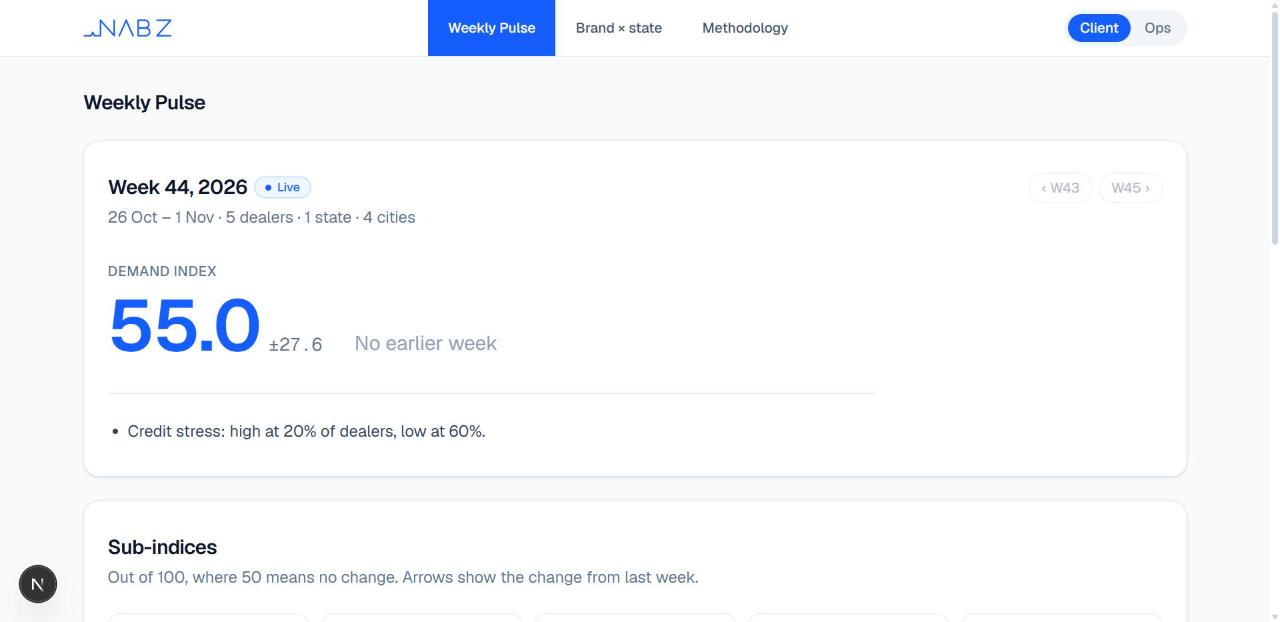
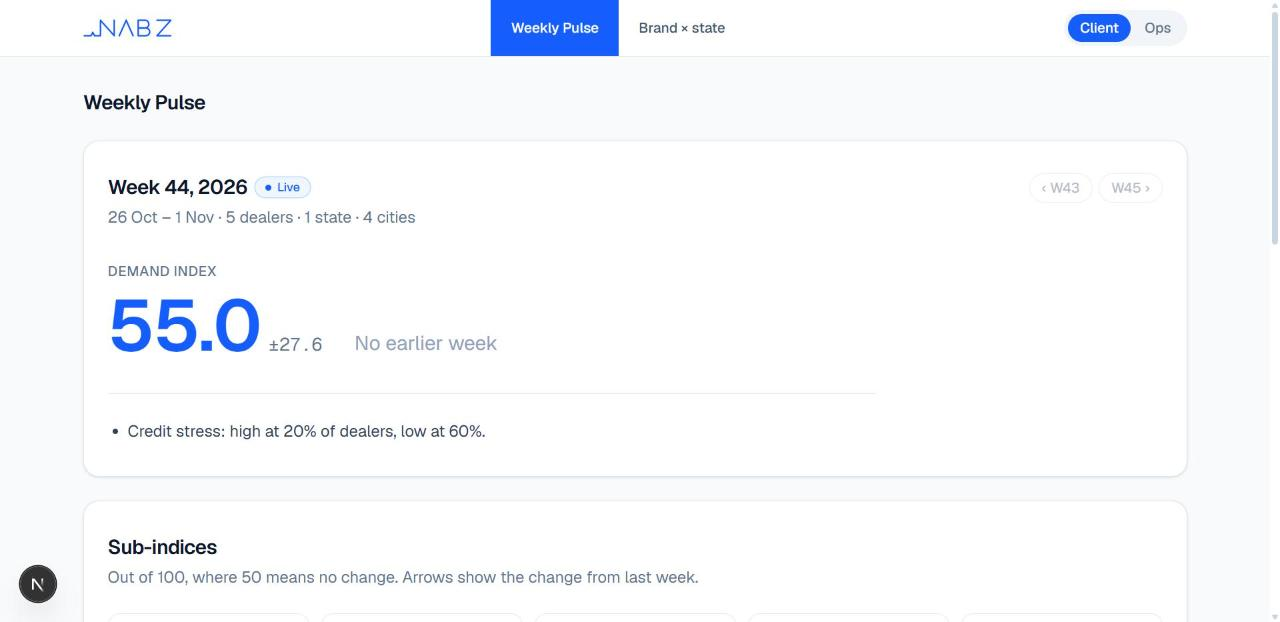
Remove the Methodology page, explain scoring in the README, clarify the testing error
The testing-mode error now says that adding a number to ALLOWED_NUMBERS is
enough to test with it; a premium key is only needed to call any number.

Claude-Session: https://claude.ai/code/session_01X7MXq8ioHa4FqjCKKq2fCm

Changed region(s): [[0.3125, 0.0, 0.625, 0.0916]]

diff --git a/src/app/(client)/_lib/pulse-data.ts b/src/app/(client)/_lib/pulse-data.ts
@@ -1,11 +1,8 @@
 import { db } from "@/lib/db/client";
 import { loadIndexInputs } from "@/lib/db/queries/index-data";
 import { weekStartOf } from "@/lib/domain/week";
-import type { WeekIndex } from "@/lib/index/engine";
-import { dimensionValueLabel, geoDimension, primaryAttributeDimension } from "@/lib/index/labels";
 import { buildPulseView, historyStart, parseWeekParam } from "@/lib/index/view";
 import { getSector } from "@/lib/sectors/registry";
-import type { SurveyDefinition } from "@/lib/surveys/schema";
 
 export const SECTOR = getSector("vehicles");
 
@@ -30,22 +27,3 @@ export async function loadPulse(weekParam: string | string[] | undefined) {
 }
 
 export type LoadedPulse = NonNullable<Awaited<ReturnType<typeof loadPulse>>>;
-
-/** Dealers per value of one dimension this week, most first. */
-function dealersBy(definition: SurveyDefinition, index: WeekIndex, dimension: string | null) {
-  if (!dimension) return [];
-  return (index.cuts[dimension] ?? [])
-    .map((g) => ({ label: dimensionValueLabel(definition, SECTOR, dimension, g.values[dimension]!), n: g.n }))
-    .toSorted((a, b) => b.n - a.n || a.label.localeCompare(b.label));
-}
-
-/** The latest week's dealer counts by brand and by state. Call after `await io()`: it reads the clock. */
-export async function loadDealerCounts() {
-  const pulse = await loadPulse(undefined);
-  if (!pulse) return null;
-  const { definition, index } = pulse;
-  return {
-    byBrand: dealersBy(definition, index, primaryAttributeDimension(definition)),
-    byState: dealersBy(definition, index, geoDimension(definition, "state")),
-  };
-}

diff --git a/src/lib/calling-policy.ts b/src/lib/calling-policy.ts
@@ -12,11 +12,11 @@ export type CallingScope = { mode: CallingMode; allowedNumbers: readonly string[
 /** For code that only reads from Bolna: it can never place a call. */
 export const NO_NUMBERS: CallingScope = { mode: "testing", allowedNumbers: [] };
 
-const SWITCH_TO_PRODUCTION =
-  "To call other numbers, set NABZ_MODE=production and add a premium Bolna API key in .env.local, then restart the app. See the README for the full steps.";
+const HOW_TO_ALLOW =
+  "To test with a number, add it to ALLOWED_NUMBERS in .env.local and restart the app. To call any number, set NABZ_MODE=production and use a premium Bolna API key. See the README for the full steps.";
 
-export const NUMBER_NOT_ALLOWED = `This number isn't allowed in testing mode. ${SWITCH_TO_PRODUCTION}`;
-export const BATCH_NOT_ALLOWED = `No number in this batch is allowed in testing mode. ${SWITCH_TO_PRODUCTION}`;
+export const NUMBER_NOT_ALLOWED = `This number isn't allowed in testing mode. ${HOW_TO_ALLOW}`;
+export const BATCH_NOT_ALLOWED = `No number in this batch is allowed in testing mode. ${HOW_TO_ALLOW}`;
 
 export function numberAllowed(phoneE164: string, scope: CallingScope): boolean {
   return scope.mode === "production" || scope.allowedNumbers.includes(phoneE164);

diff --git a/src/components/ui.tsx b/src/components/ui.tsx
@@ -171,14 +171,12 @@ export function TableScroll({ children }: { children: ReactNode }) {
 export function KeyValues({
   rows,
   roomy = false,
-  large = false,
 }: {
   rows: [ReactNode, ReactNode][];
   roomy?: boolean;
-  large?: boolean;
 }) {
   return (
-    <dl className={`grid grid-cols-[auto_1fr] items-center gap-x-4 ${large ? "text-base" : "text-sm"} ${roomy || large ? "gap-y-4" : "gap-y-2"}`}>
+    <dl className={`grid grid-cols-[auto_1fr] items-center gap-x-4 text-sm ${roomy ? "gap-y-4" : "gap-y-2"}`}>
       {rows.map(([k, v], i) => (
         <div key={i} className="contents">
           <dt className="text-muted">{k}</dt>

diff --git a/src/lib/calling-policy.test.ts b/src/lib/calling-policy.test.ts
@@ -21,6 +21,7 @@ describe("dealerNumberRefusal", () => {
   it("in testing, refuses a new dealer on another number, and says how to switch", () => {
     expect(dealerNumberRefusal(MINE, null, TESTING)).toBeNull();
     expect(dealerNumberRefusal(OTHER, null, TESTING)).toBe(NUMBER_NOT_ALLOWED);
+    expect(NUMBER_NOT_ALLOWED).toContain("ALLOWED_NUMBERS");
     expect(NUMBER_NOT_ALLOWED).toContain("NABZ_MODE=production");
     expect(NUMBER_NOT_ALLOWED).toContain("premium Bolna API key");
   });

diff --git a/src/components/shell/area.ts b/src/components/shell/area.ts
@@ -8,7 +8,7 @@ export type Area = (typeof AREAS)[number];
 
 export const AREA_HOME: Record<Area, string> = { client: "/pulse", ops: "/ops/dealers" };
 
-const CLIENT_ROUTES = ["/pulse", "/heatmap", "/methodology"];
+const CLIENT_ROUTES = ["/pulse", "/heatmap"];
 
 function underRoute(pathname: string, route: string): boolean {
   return pathname === route || pathname.startsWith(`${route}/`);

diff --git a/src/components/shell/site-header.tsx b/src/components/shell/site-header.tsx
@@ -8,7 +8,6 @@ const AREA_NAV: Record<Area, NavItem[]> = {
   client: [
     { href: "/pulse", label: "Weekly Pulse" },
     { href: "/heatmap", label: "Brand × state" },
-    { href: "/methodology", label: "Methodology" },
   ],
   ops: [
     { href: "/ops/dealers", label: "Dealers" },

diff --git a/src/components/shell/area.test.ts b/src/components/shell/area.test.ts
@@ -6,7 +6,6 @@ describe("areaOf", () => {
     ["/pulse", "client"],
     ["/pulse/preview", "client"],
     ["/heatmap", "client"],
-    ["/methodology", "client"],
     ["/ops", "ops"],
     ["/ops/dealers", "ops"],
     ["/ops/system", "ops"],

diff --git a/README.md b/README.md
@@ -19,9 +19,23 @@ Batches in the Ops console, using our own test dealers, all on our own phone num
 1. **Ops** adds dealers and groups them into batches.
 2. **Calling a batch** starts a set: one call at a time, each using the agent for the dealer's language.
 3. **Bolna** places the call. The app collects the transcript and answers, and checks their quality.
-4. **The index engine** scores the answers. The **client pages** (Weekly Pulse, Brand × state, Methodology) show the result on every request.
+4. **The index engine** scores the answers. The **client pages** (Weekly Pulse, Brand × state) show the result on every request.
 
 Clients never see a dealer's name or number.
+
+## How the score works
+
+Each answer becomes a score from 0 to 100, where 50 means no change. A dealer's scores combine into the Demand index:
+
+| Sub-index         | Scored from                                                                                    | Share of Demand index |
+| ----------------- | ---------------------------------------------------------------------------------------------- | --------------------- |
+| Enquiries         | Up 100, same 50, down 0                                                                        | 25%                   |
+| Bookings momentum | Up 100, same 50, down 0                                                                        | 25%                   |
+| Stock momentum    | Days of stock against last week: down over 5% 100, within 5% 50, up over 5% 0                  | 20%                   |
+| Discount pressure | Up 100, same 50, down 0, flipped because more discounting is bad for demand                    | 15%                   |
+| Credit stress     | Loan rejections high 100, normal 50, low 0, flipped because more rejections are bad for demand | 15%                   |
+
+A published number is the average across dealers, with a 95% margin of error. If a dealer is called twice in a week, their newest usable call counts. Brand × state cells pool two weeks of answers and stay hidden below 3 dealers.
 
 ## It starts empty
 
@@ -31,15 +45,17 @@ There is no sample data. A new copy has no dealers, batches or calls, and every 
 
 One setting, `NABZ_MODE` in `.env.local`, decides who can be called. It defaults to `testing`.
 
-|                                     | `testing` (default)                                       | `production`      |
-| ----------------------------------- | --------------------------------------------------------- | ----------------- |
-| Add a dealer or change their number | Only numbers in `ALLOWED_NUMBERS`, otherwise an error     | Any valid number  |
-| Call a batch, Test call             | Only numbers in `ALLOWED_NUMBERS`                         | Any dealer        |
-| Everything else                     | The same                                                  | The same          |
+|                                     | `testing` (default)                                   | `production`     |
+| ----------------------------------- | ----------------------------------------------------- | ---------------- |
+| Add a dealer or change their number | Only numbers in `ALLOWED_NUMBERS`, otherwise an error | Any valid number |
+| Call a batch, Test call             | Only numbers in `ALLOWED_NUMBERS`                     | Any dealer       |
+| Everything else                     | The same                                              | The same         |
 
 In testing, any other number gets this error:
 
-> This number isn't allowed in testing mode. To call other numbers, set NABZ_MODE=production and add a premium Bolna API key in .env.local, then restart the app. See the README for the full steps.
+> This number isn't allowed in testing mode. To test with a number, add it to ALLOWED_NUMBERS in .env.local and restart the app. To call any number, set NABZ_MODE=production and use a premium Bolna API key. See the README for the full steps.
+
+So to try it on your own phone, you only need to add your number to `ALLOWED_NUMBERS`. A premium key is only for reaching numbers Bolna hasn't verified.
 
 In both modes, calls run one at a time, nothing dials unless `CALLING_ENABLED=true`, and spending stops at the daily limit (`BOLNA_DAILY_SPEND_CAP_USD`, $10 at most).
 
@@ -66,7 +82,7 @@ pnpm dev
 
 Open http://localhost:3000. Client pages start at `/pulse`, and the Ops console is at `/ops`.
 
-Everything works at this point except calling. No Bolna key is included, and none is needed to look around.
+You can now look around every page. No Bolna key is included, and none is needed for this. Calling won't work yet, and adding a dealer is refused until their number is in `ALLOWED_NUMBERS`.
 
 ## Make a real call (testing mode)
 

diff --git a/CLAUDE.md b/CLAUDE.md
@@ -15,7 +15,7 @@ Visual style: modern minimal white + blue, light only, slate-50 page, white roun
 - **Before real dealers are called, the app must have opt-out, DND and calling hours** (the legal brief requires them; spec §10). They were removed for now, on the owner's decision. Production mode does not add them, and the README says so.
 - **Only calls from a set change data.** A **test call** (Test call in the Edit dealer pop-up, `placeTestCall` in `src/lib/bolna/dialer.ts`) is a real, paid call that creates no set, recipient or call row and carries no `nabz_call_ref`, so it can never reach the index or a survey freeze. Its only trace is a `dialer_log` row, which counts its estimate toward the daily spend cap.
 - **Client pages are live** (no release step yet): `/pulse` and `/heatmap` run the index engine (`src/lib/index/`) on every request over all usable calls. Loader: `src/lib/db/queries/index-data.ts`; page view: `src/lib/index/view.ts`.
-- **No made-up numbers.** Every number on the client pages comes from an answered call. The Methodology page reads its method from the survey definition (`src/lib/index/methodology.ts`), so don't hard-code weights or thresholds there.
+- **No made-up numbers.** Every number on the client pages comes from an answered call.
 - **Batches vs sets.** A **batch** is a saved list of dealers, normally one company × state cell ("Hero · Karnataka"); names are unique and a dealer is in **at most one batch** (both enforced by the database). A **set** (`sets` / `set_recipients`) is one run of a batch, its calls together; running it next week is another set. A batch with sets is archived, never deleted.
 - **Calling a batch: sets** (`src/lib/bolna/set-dialer.ts`, rules in `planSet`, `src/lib/calls/set-plan.ts`). Rows are called one at a time, in order, each with the agent for the dealer's language; the live page `/ops/calls/sets?set=<id>` drives it (`advanceSet` every 5 s), so closing it pauses the set. Every run calls everyone again. A many-at-once version is archived in `../archive/many-at-once/`.
 - **Newest good call wins.** If a dealer is called again in a survey week, the index uses their newest usable call, whole (`latestPerDealer`, `src/lib/index/engine.ts`; `previousWeekAnswers`). The old call stays in Ops → Calls, marked Replaced.
@@ -37,7 +37,7 @@ Visual style: modern minimal white + blue, light only, slate-50 page, white roun
 
 ## Areas and navigation
 
-- Two areas: **client** (`/pulse`, `/heatmap`, `/methodology`) and **ops** (`/ops/...`). Each area layout renders `<SiteHeader area=…>`, which shows that area's pills and the **Client | Ops** switch (`src/components/shell/`). Add new pages to `AREA_NAV` in `site-header.tsx` and to `areaOf` in `area.ts`.
+- Two areas: **client** (`/pulse`, `/heatmap`) and **ops** (`/ops/...`). Each area layout renders `<SiteHeader area=…>`, which shows that area's pills and the **Client | Ops** switch (`src/components/shell/`). Add new pages to `AREA_NAV` in `site-header.tsx` and to `areaOf` in `area.ts`.
 - The switch resumes where you left each area **in this browser tab only** (sessionStorage): page, query and scroll. `AreaMemory` lives once, in the root layout. Area layouts stay mounted (hidden) between navigations, so never put a second copy inside them.
 - Forms with controlled fields (selects driven by state): submit via `onSubmit` + `startTransition(() => dispatch(formData))`, not `<form action={…}>`. React resets a form after an action, which desyncs controlled selects from their state (the `Add dealer` bug).
 - Next keeps recently visited pages' component state, but not reliably. Forms whose content matters (call review) save drafts to sessionStorage.
